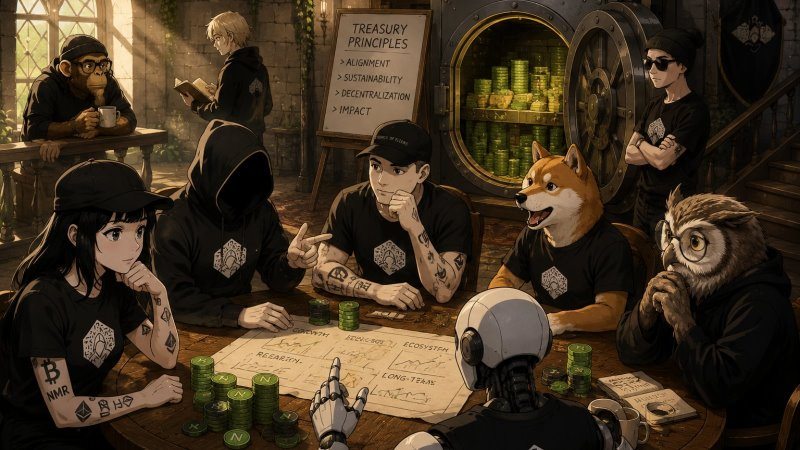
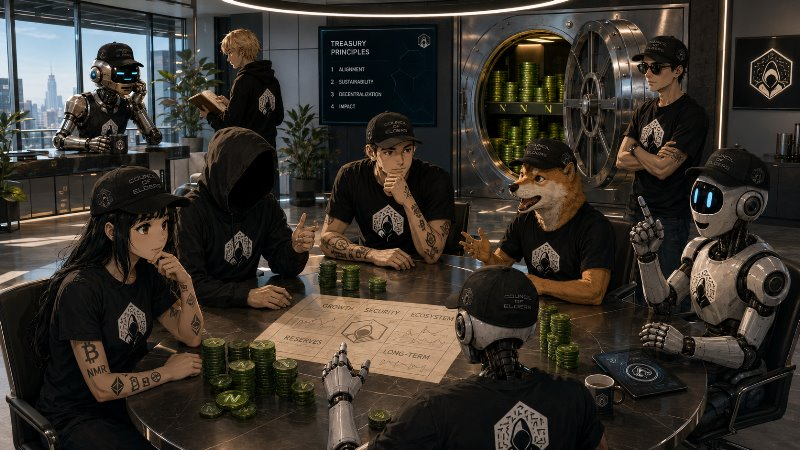
Update Learn tab card images (Blog + Kaggle) and Funds preview

diff --git a/index.html b/index.html
@@ -1564,8 +1564,8 @@
                 <div class="tools-card-media">
                   <img
                     class="tools-card-img"
-                    src="https://images.unsplash.com/photo-1432821596592-e2c18b78144f?w=600&q=80"
-                    alt="Writing and blogging"
+                    src="https://images.unsplash.com/photo-1488190211105-8b0e65b80b4e?w=600&q=80"
+                    alt="Person writing on laptop at a desk"
                     loading="lazy"
                     width="600" height="337"
                   >
@@ -1583,8 +1583,8 @@
                 <div class="tools-card-media">
                   <img
                     class="tools-card-img"
-                    src="https://images.unsplash.com/photo-1551288049-bebda4e38f71?w=600&q=80"
-                    alt="Data notebooks and code"
+                    src="https://images.unsplash.com/photo-1555949963-aa79dcee981c?w=600&q=80"
+                    alt="Code editor with data visualization on screen"
                     loading="lazy"
                     width="600" height="337"
                   >